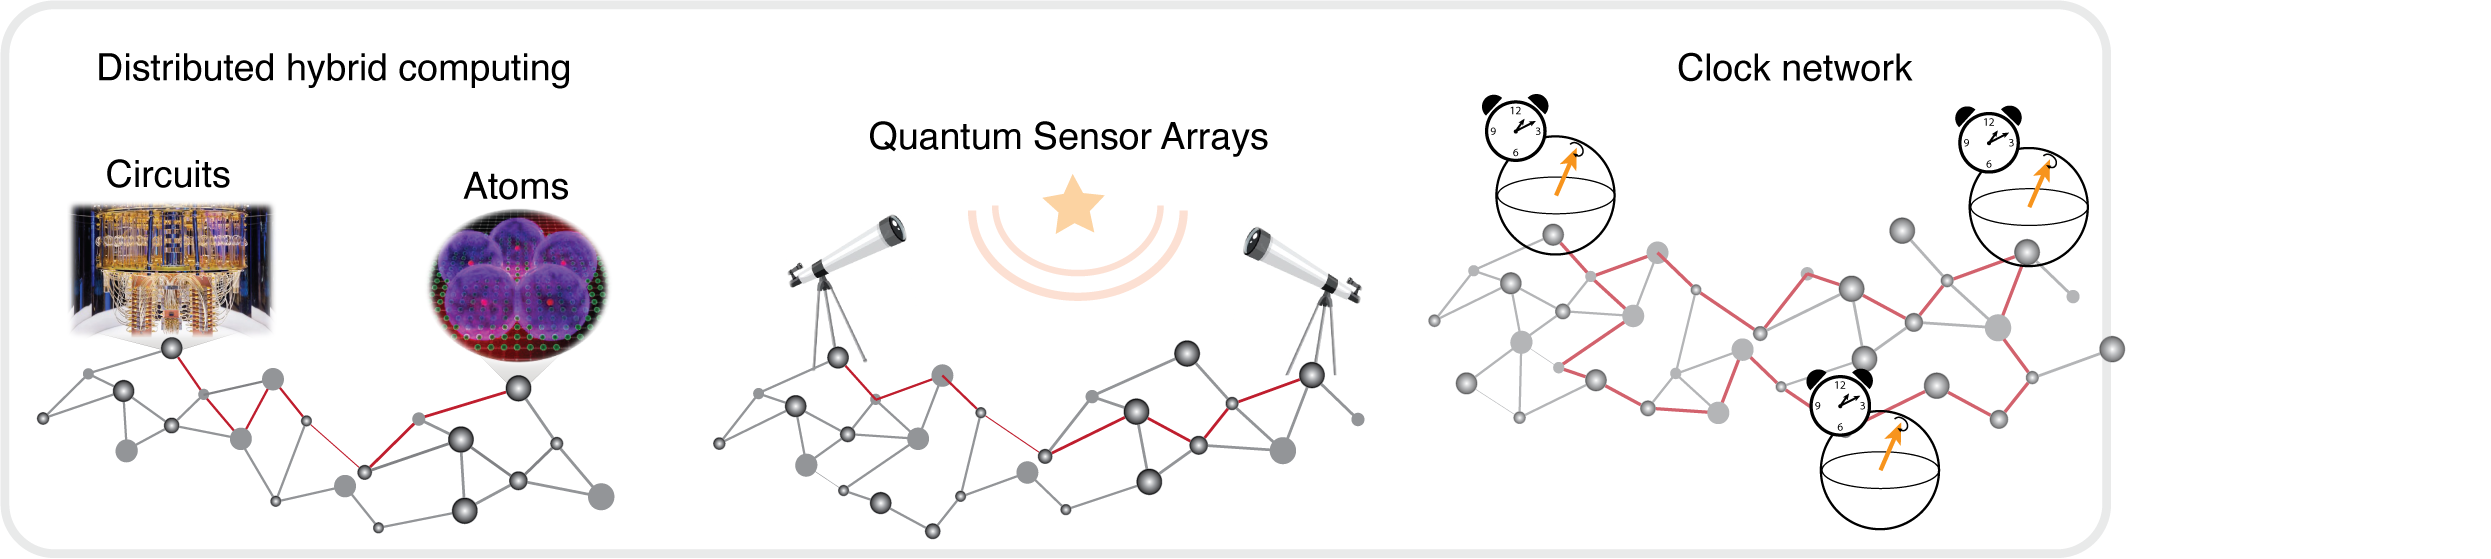
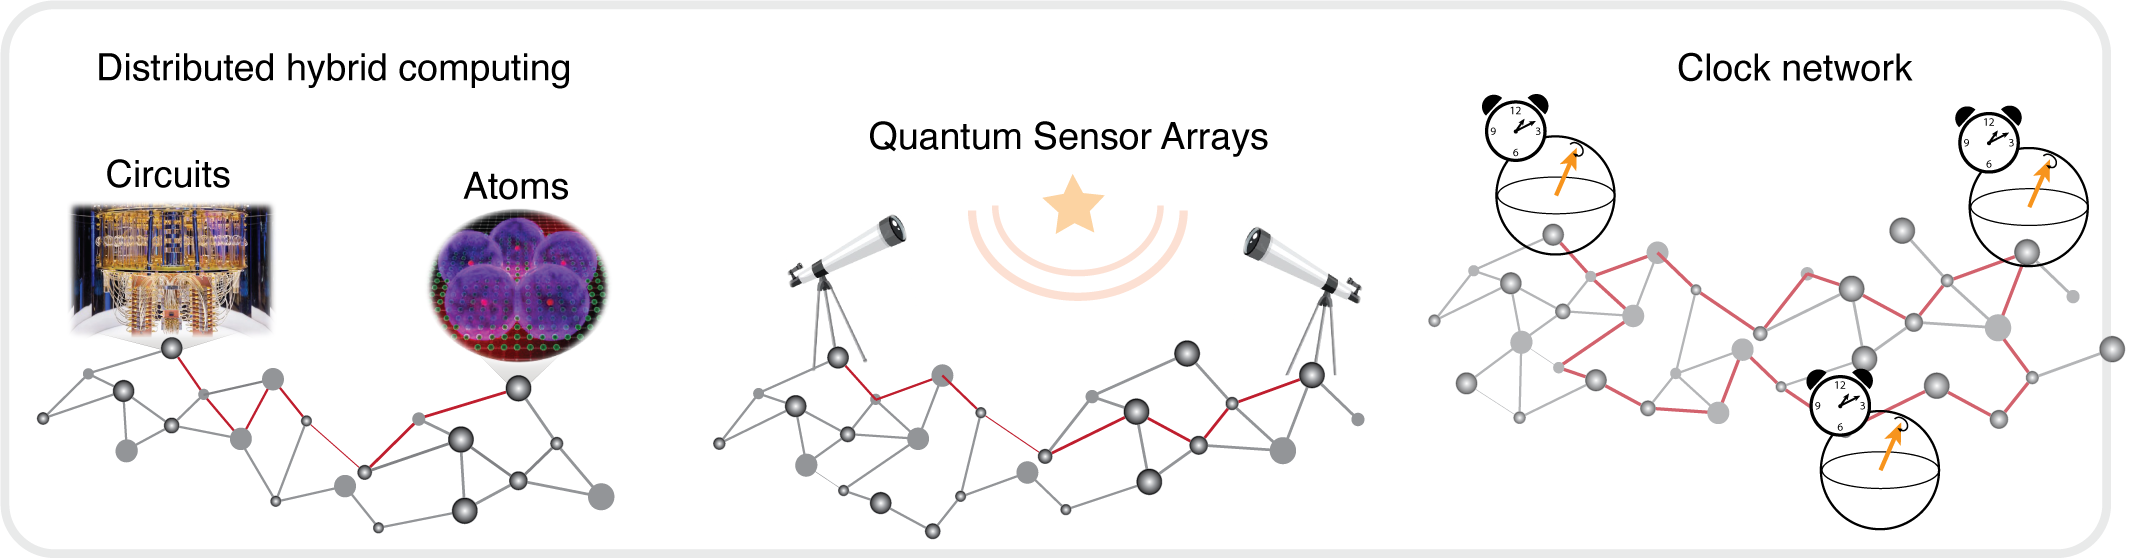
cleaning up

diff --git a/_site/research.html b/_site/research.html
@@ -153,7 +153,7 @@
 
 <p>The ability to generate and harness large-scale entanglement is key to unlocking full potential of quantum technology and science. To access this potential we need quantum systems designed and built to interface with each other and the outside world through quantum and classical channels.</p>
 
-<p><img src="/assets/img/pages/ApplicationsNetworks.png" alt="Description of image" /></p>
+<p><img src="/assets/img/pages/ApplicationsNetworks.png" alt="Description of image" style="display: block; margin: 0 auto;" /></p>
 
 <hr />
 
@@ -223,7 +223,7 @@ Some of the systems we are working on right now are trapped neutral atoms and hi
 <div class="row">
     <div class="col-lg-5 col-md-6 mx-auto">
         <div class="card" style="padding: 5px;" data-background="full">
-            <img class="card-img-top" src="/assets/img/pages/CircuitsMmwave.png" alt="Card image cap" />
+            <img class="card-img-top" src="/assets/img/pages/CircuitsMmwave1.png" alt="Card image cap" />
             <div class="card-body">
                 <h4 class="card-title"> Superconducting circuits and neutral atoms </h4>
                 <p class="card-text"> Millimeter-wave superconducting circuits is a promising platform for quantum computing. The higher frequency of devices and ability to operate at high temperatures hold potential for interfacing with neutral trapped atoms which have mm-wave transitions between their Rydberg states. </p>

diff --git a/_pages/research.md b/_pages/research.md
@@ -16,7 +16,7 @@ featured_image: /assets/img/ill/GoldenGateBridge.jpg
 The ability to generate and harness large-scale entanglement is key to unlocking full potential of quantum technology and science. To access this potential we need quantum systems designed and built to interface with each other and the outside world through quantum and classical channels.
 
 
-<img src="/assets/img/pages/ApplicationsNetworks.png" alt="Description of image" />
+<img src="/assets/img/pages/ApplicationsNetworks.png" alt="Description of image" style="display: block; margin: 0 auto;" />
 
 ---
 
@@ -88,7 +88,7 @@ Some of the systems we are working on right now are trapped neutral atoms and hi
 <div class="row">
     <div class="col-lg-5 col-md-6 mx-auto">
         <div class="card" style="padding: 5px;" data-background="full">
-            <img class="card-img-top" src="/assets/img/pages/CircuitsMmwave.png" alt="Card image cap">
+            <img class="card-img-top" src="/assets/img/pages/CircuitsMmwave1.png" alt="Card image cap">
             <div class="card-body">
                 <h4 class="card-title"> Superconducting circuits and neutral atoms </h4>
                 <p class="card-text"> Millimeter-wave superconducting circuits is a promising platform for quantum computing. The higher frequency of devices and ability to operate at high temperatures hold potential for interfacing with neutral trapped atoms which have mm-wave transitions between their Rydberg states. </p>
